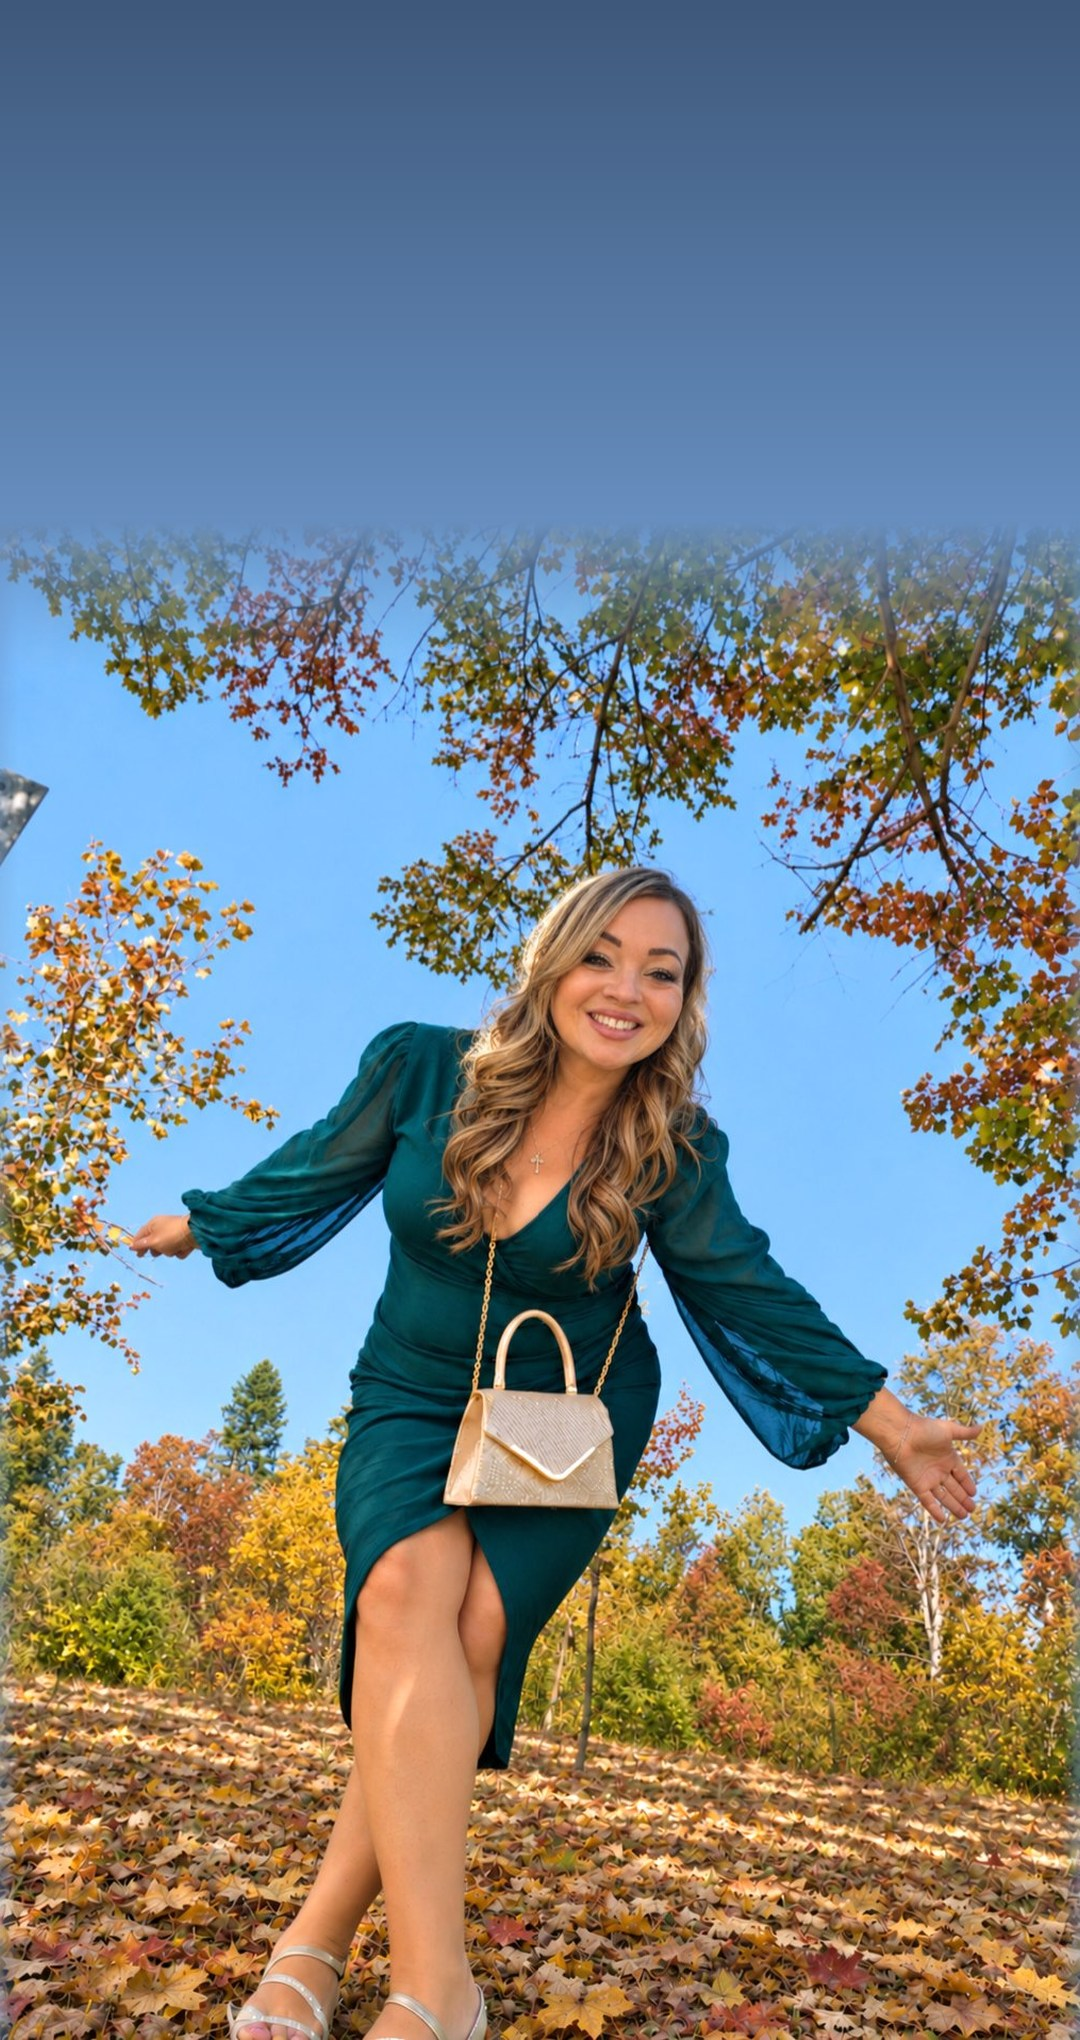
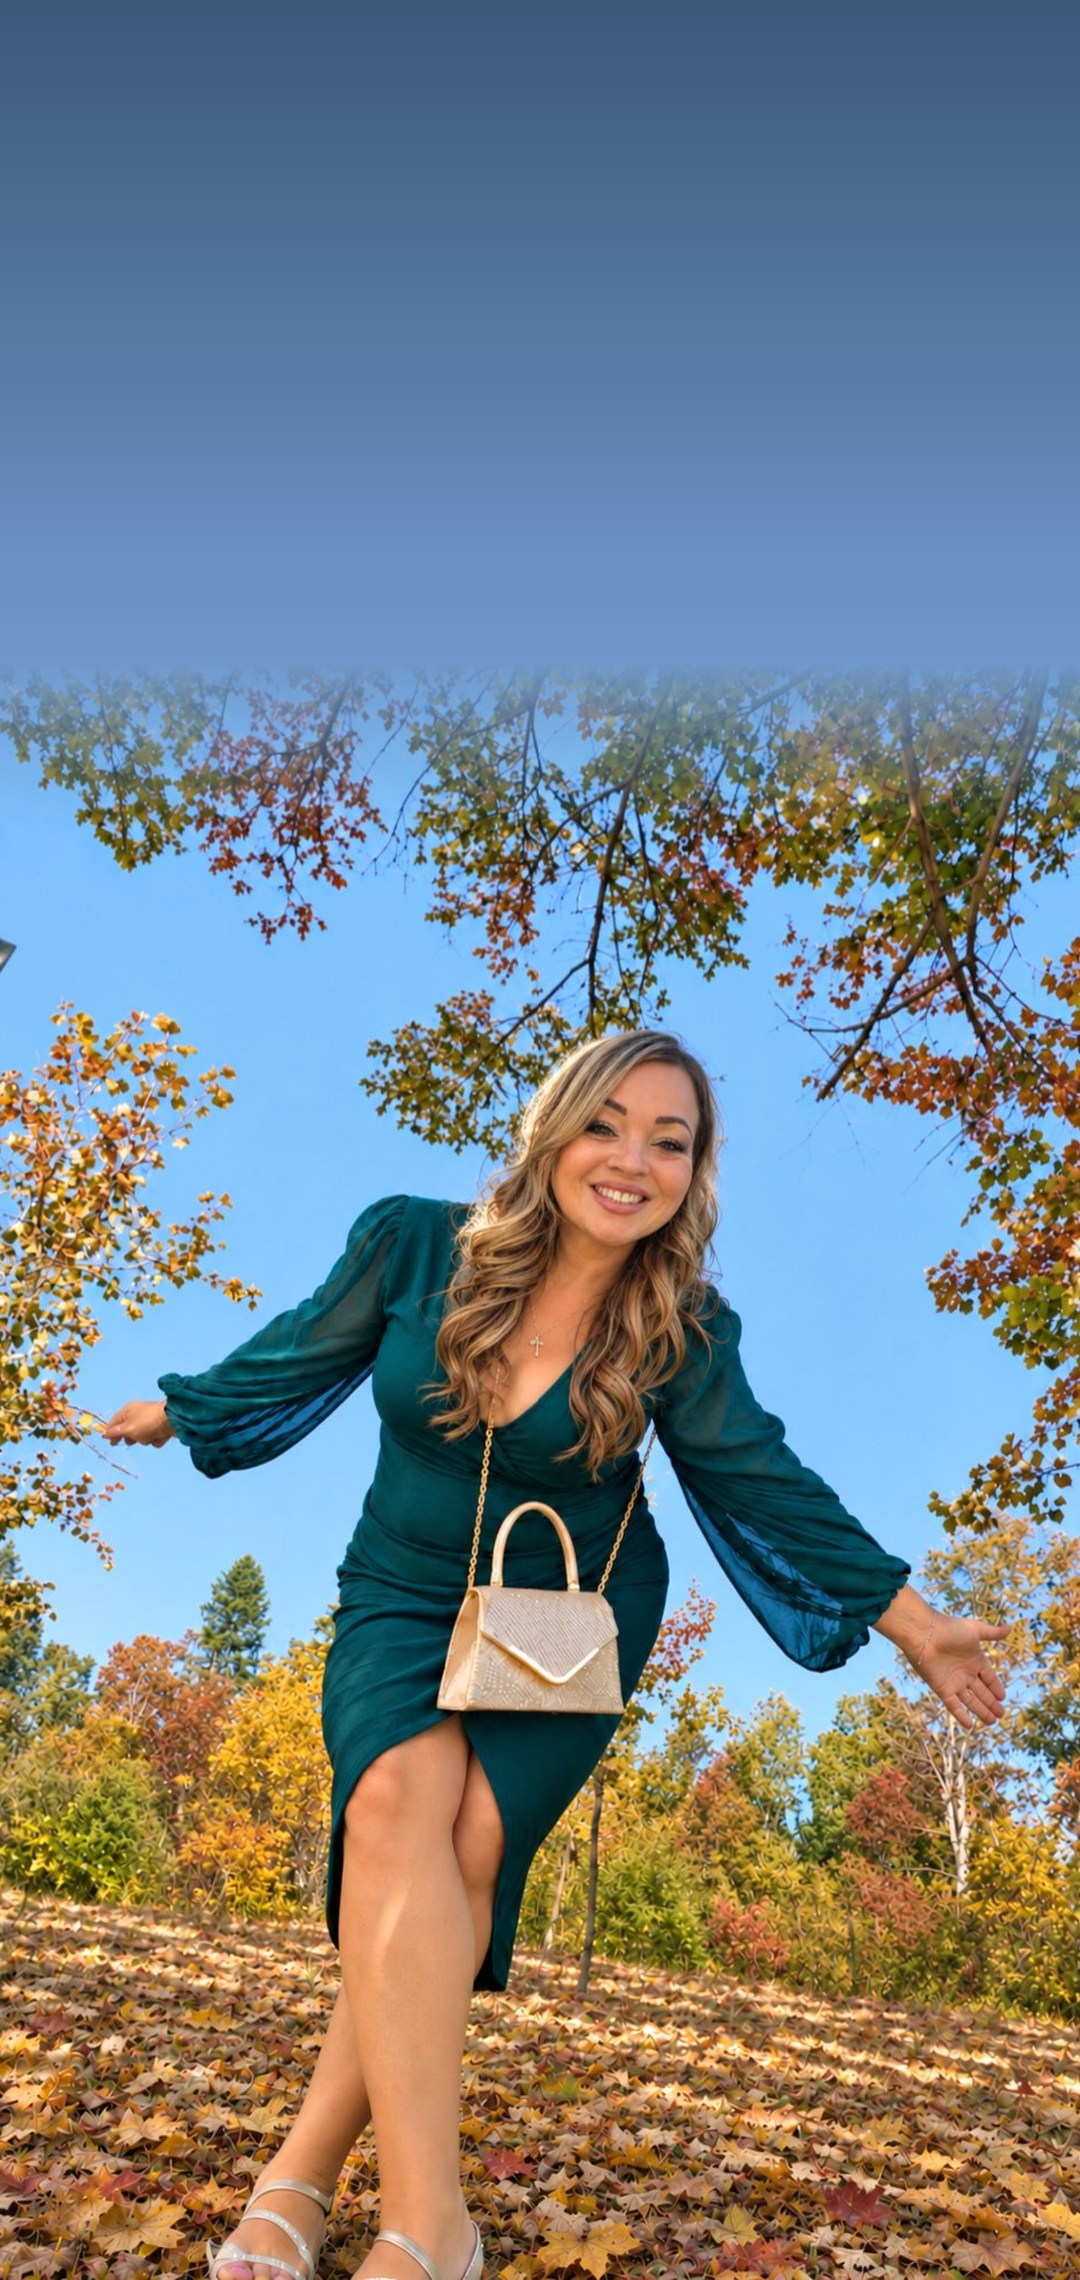
Accueil téléphone : photo allongée jusqu'au bas de l'écran (1080×2280, Cindy au complet jusqu'aux pieds), petite photo rapetissée (96px) et confirmée à gauche

diff --git a/index.html b/index.html
@@ -628,7 +628,7 @@
     }
     .hero-petite img { display: block; width: 100%; height: auto; border-radius: 6px; }
     @media (max-width: 700px) {
-      .hero-petite { right: auto; left: 14px; bottom: 16px; width: 112px; transform: rotate(-2.5deg); }
+      .hero-petite { right: auto; left: 14px; bottom: 16px; width: 96px; transform: rotate(-2.5deg); }
     }
     .hero-accent {
       position: absolute; z-index: 2; margin: 0; pointer-events: none;
@@ -998,7 +998,7 @@
       .hero-titles { padding-top: 36px; }
     }
     @media (max-width: 700px) {
-      .hero-photo.hero-cover picture { aspect-ratio: 1080 / 2040; }
+      .hero-photo.hero-cover picture { aspect-ratio: 1080 / 2280; }
       .hero-titles { padding: 56px 18px 40px; }
       .hero-photo.hero-cover .hero-butterfly { width: 18px; margin-bottom: 4px; }
       /* Téléphone : nom rapetissé d’emblée (13,8 vw) et poussé une
@@ -5545,7 +5545,7 @@
       <span class="hero-watermark" aria-hidden="true">Acadie</span>
       <div class="hero-photo hero-cover hero-scene">
         <picture>
-          <source media="(max-width: 700px)" srcset="assets/cindy-accueil-ciel-portrait.jpg" width="1080" height="2040" />
+          <source media="(max-width: 700px)" srcset="assets/cindy-accueil-ciel-portrait.jpg" width="1080" height="2280" />
           <img src="assets/cindy-accueil-ciel-large.jpg" width="1920" height="1640" alt="Cindy Roy dehors, en robe verte émeraude aux manches bouffantes, les bras grands ouverts et le sourire aux lèvres, sous un grand ciel bleu bordé d’arbres" />
         </picture>
         <div class="hero-titles">
